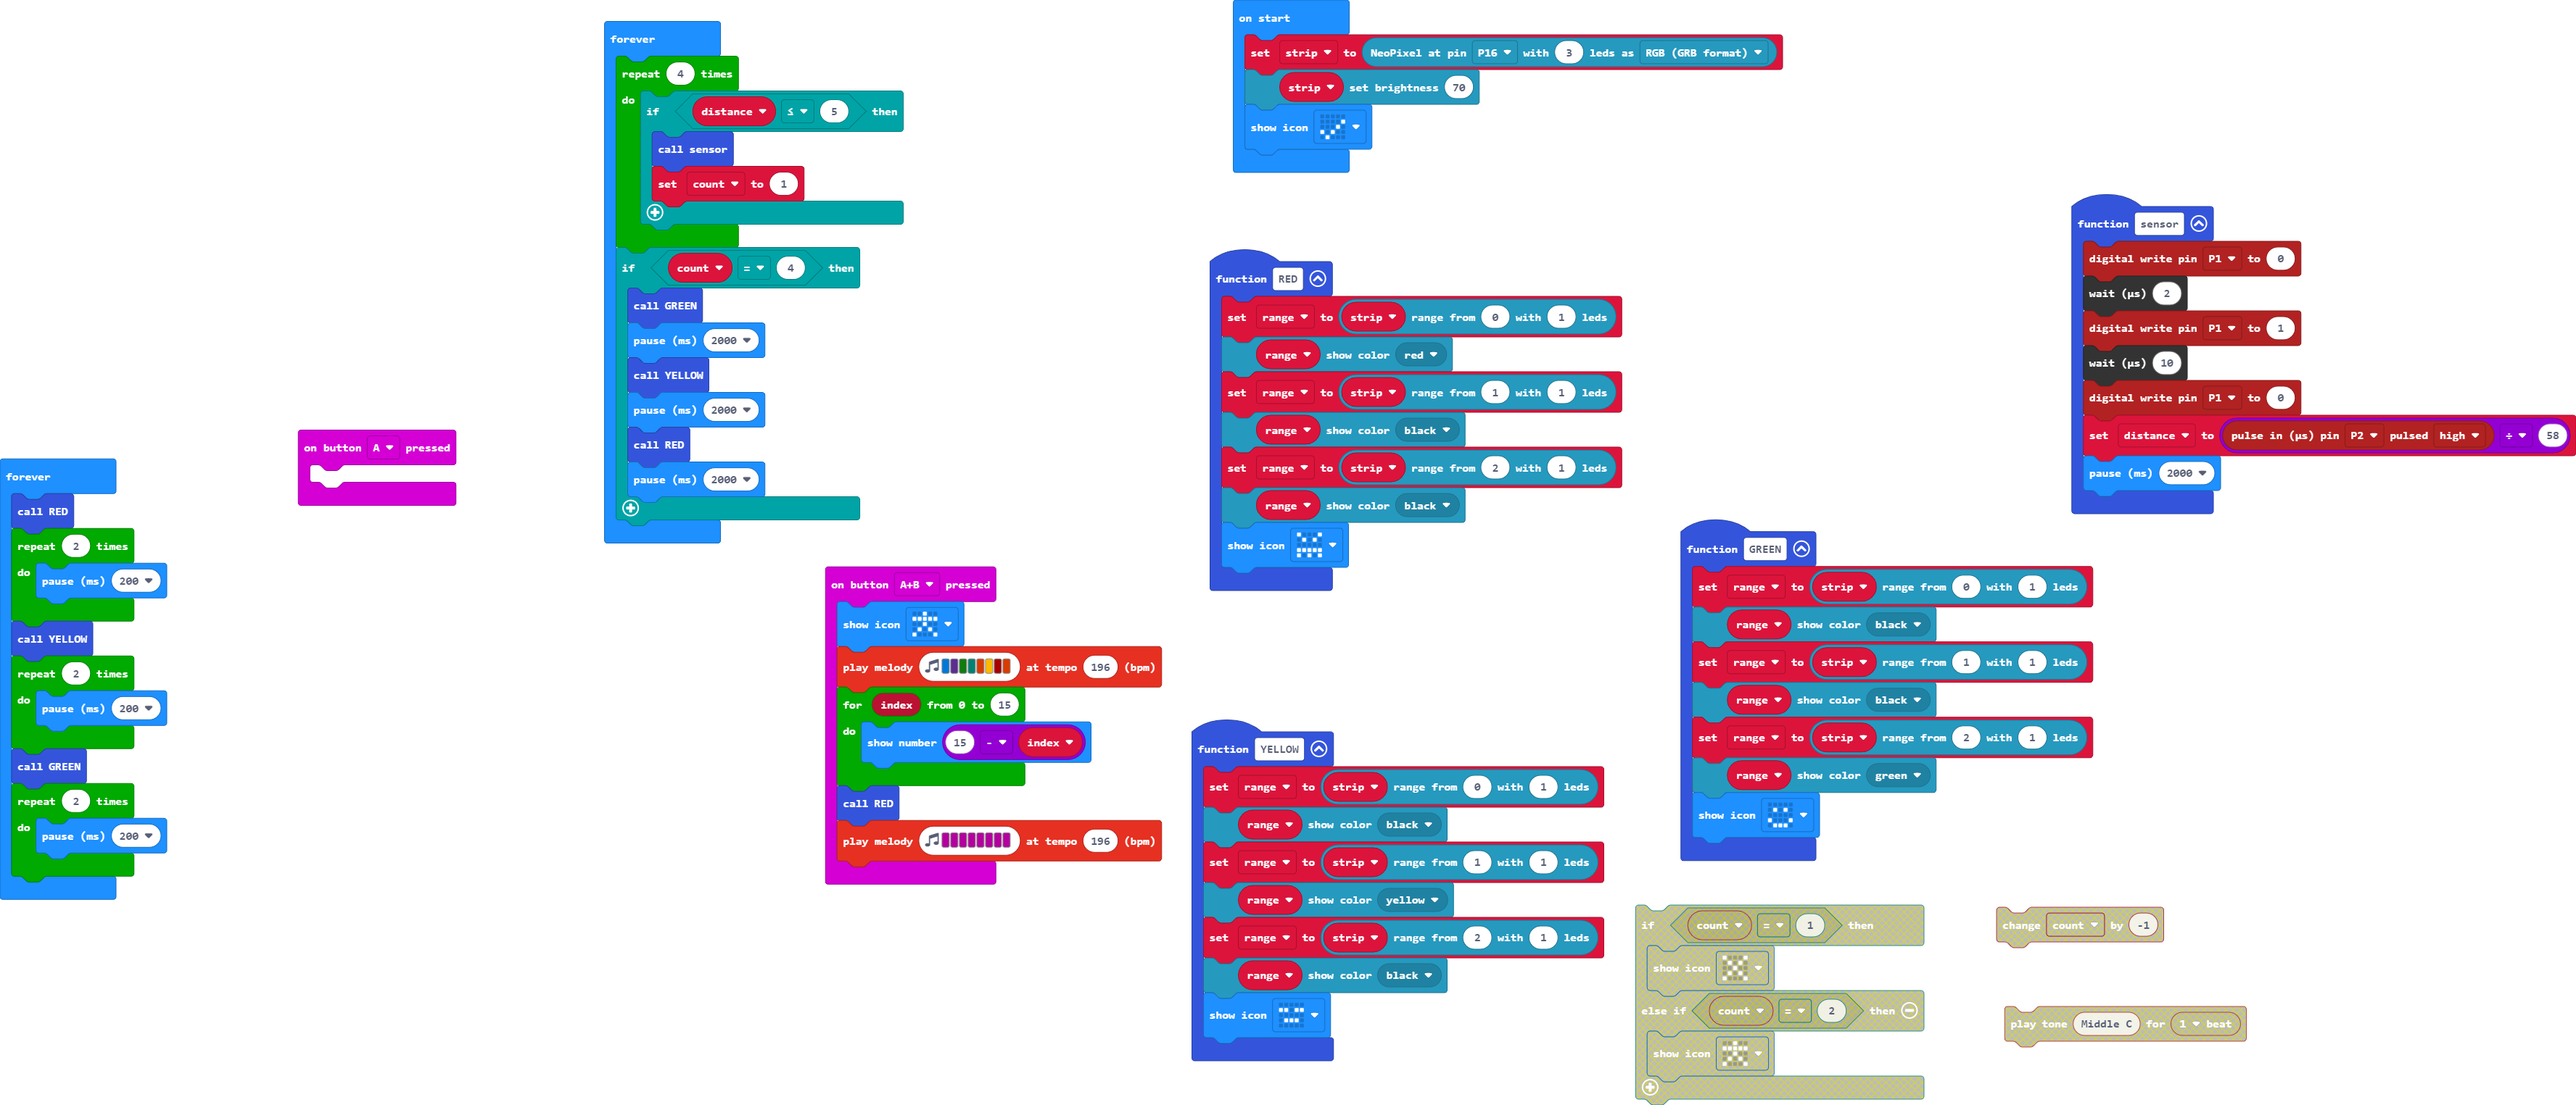
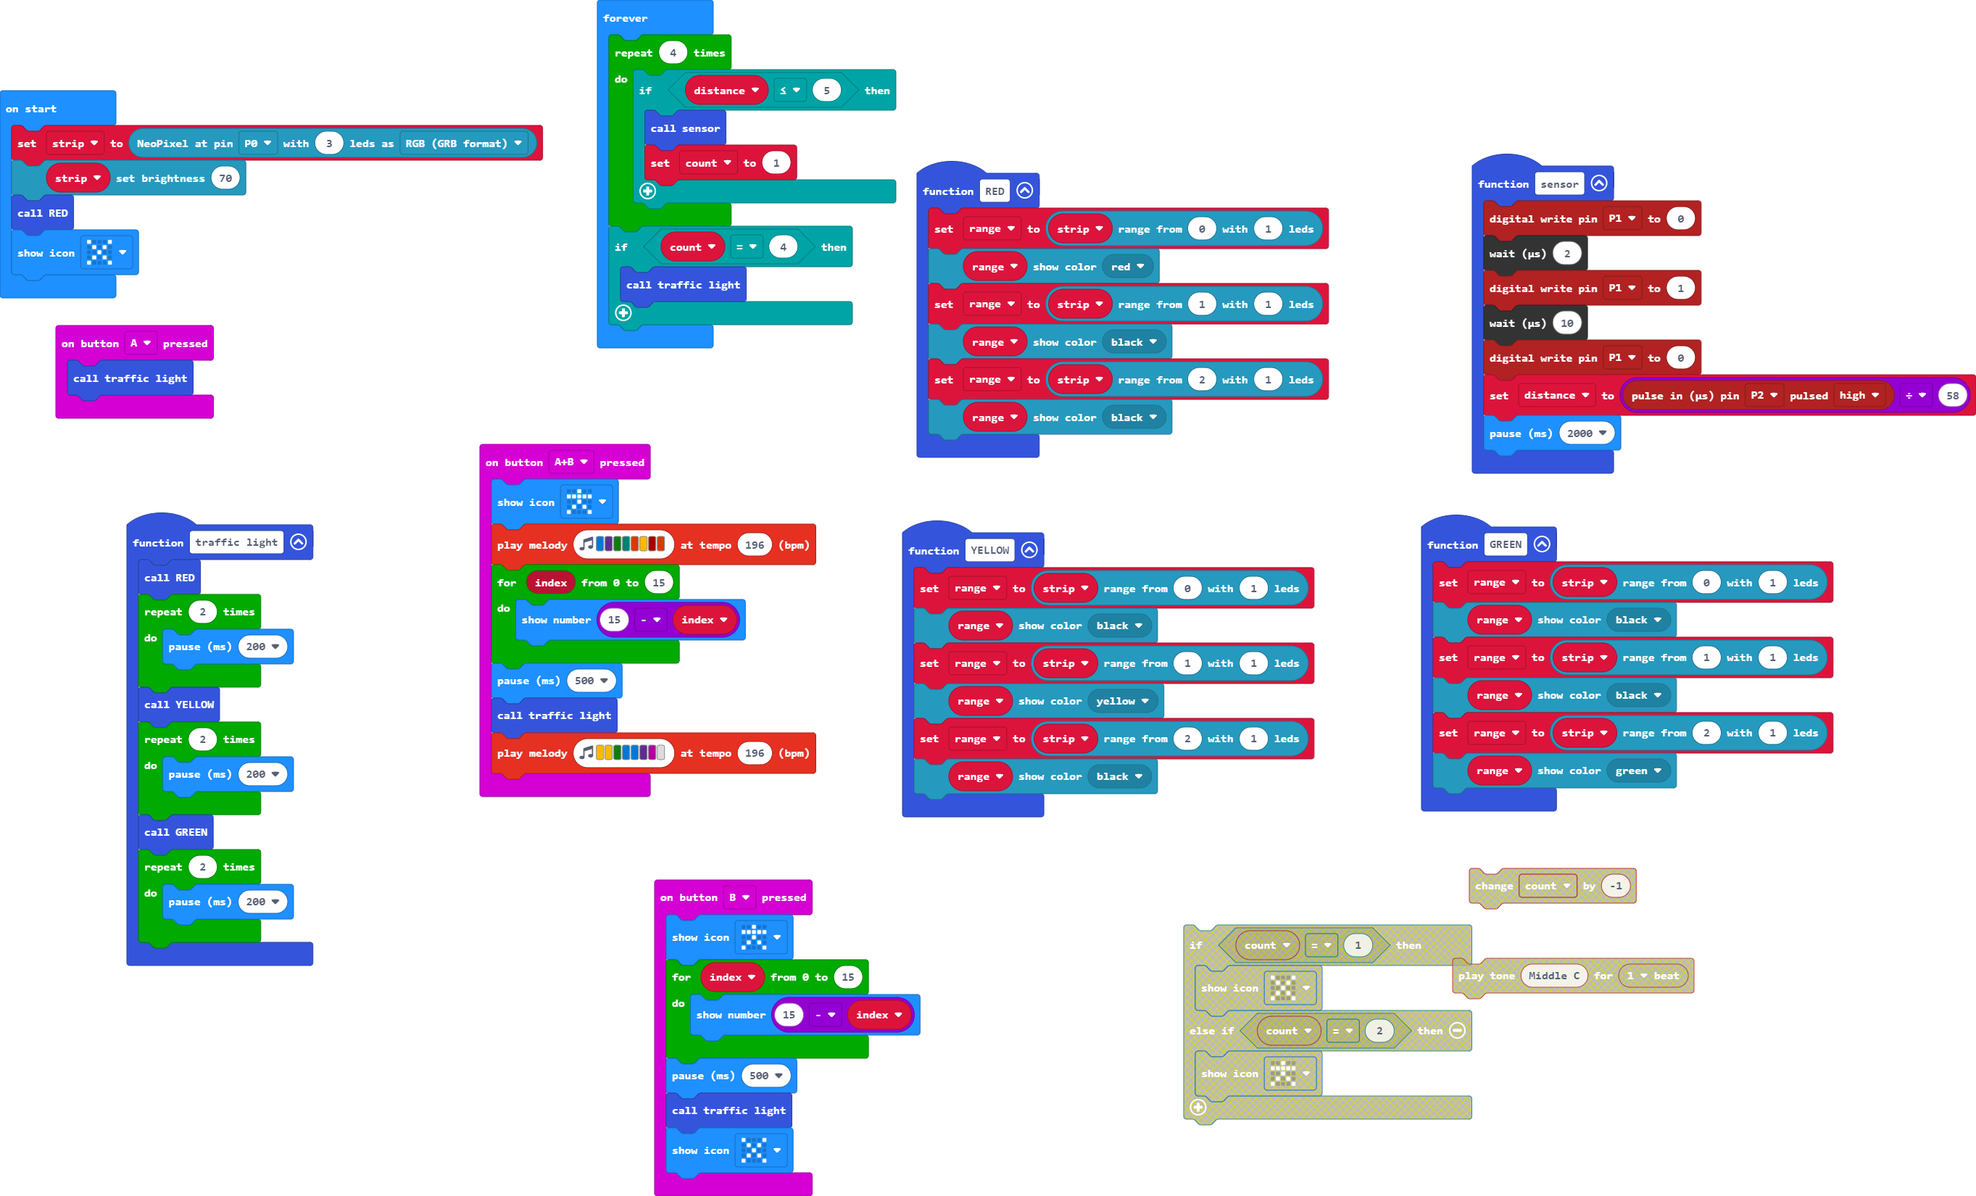
heyy

diff --git a/main.ts b/main.ts
@@ -1,6 +1,20 @@
 input.onButtonPressed(Button.A, function () {
-	
+    traffic_light()
 })
+function traffic_light () {
+    RED()
+    for (let index = 0; index < 2; index++) {
+        basic.pause(200)
+    }
+    YELLOW()
+    for (let index = 0; index < 2; index++) {
+        basic.pause(200)
+    }
+    GREEN()
+    for (let index = 0; index < 2; index++) {
+        basic.pause(200)
+    }
+}
 function RED () {
     range = strip.range(0, 1)
     range.showColor(neopixel.colors(NeoPixelColors.Red))
@@ -8,7 +22,6 @@ function RED () {
     range.showColor(neopixel.colors(NeoPixelColors.Black))
     range = strip.range(2, 1)
     range.showColor(neopixel.colors(NeoPixelColors.Black))
-    basic.showIcon(IconNames.Angry)
 }
 function GREEN () {
     range = strip.range(0, 1)
@@ -17,7 +30,6 @@ function GREEN () {
     range.showColor(neopixel.colors(NeoPixelColors.Black))
     range = strip.range(2, 1)
     range.showColor(neopixel.colors(NeoPixelColors.Green))
-    basic.showIcon(IconNames.Happy)
 }
 input.onButtonPressed(Button.AB, function () {
     basic.showIcon(IconNames.StickFigure)
@@ -25,8 +37,18 @@ input.onButtonPressed(Button.AB, function () {
     for (let index = 0; index <= 15; index++) {
         basic.showNumber(15 - index)
     }
-    RED()
-    music.playMelody("C C C C C C C C ", 196)
+    basic.pause(500)
+    traffic_light()
+    music.playMelody("A A G E E D C - ", 196)
+})
+input.onButtonPressed(Button.B, function () {
+    basic.showIcon(IconNames.StickFigure)
+    for (let index = 0; index <= 15; index++) {
+        basic.showNumber(15 - index)
+    }
+    basic.pause(500)
+    traffic_light()
+    basic.showIcon(IconNames.No)
 })
 function sensor () {
     pins.digitalWritePin(DigitalPin.P1, 0)
@@ -44,15 +66,15 @@ function YELLOW () {
     range.showColor(neopixel.colors(NeoPixelColors.Yellow))
     range = strip.range(2, 1)
     range.showColor(neopixel.colors(NeoPixelColors.Black))
-    basic.showIcon(IconNames.Asleep)
 }
 let count = 0
 let distance = 0
 let range: neopixel.Strip = null
 let strip: neopixel.Strip = null
-strip = neopixel.create(DigitalPin.P16, 3, NeoPixelMode.RGB)
+strip = neopixel.create(DigitalPin.P0, 3, NeoPixelMode.RGB)
 strip.setBrightness(70)
-basic.showIcon(IconNames.Yes)
+RED()
+basic.showIcon(IconNames.No)
 basic.forever(function () {
     for (let index = 0; index < 4; index++) {
         if (distance <= 5) {
@@ -61,25 +83,6 @@ basic.forever(function () {
         }
     }
     if (count == 4) {
-        GREEN()
-        basic.pause(2000)
-        YELLOW()
-        basic.pause(2000)
-        RED()
-        basic.pause(2000)
-    }
-})
-basic.forever(function () {
-    RED()
-    for (let index = 0; index < 2; index++) {
-        basic.pause(200)
-    }
-    YELLOW()
-    for (let index = 0; index < 2; index++) {
-        basic.pause(200)
-    }
-    GREEN()
-    for (let index = 0; index < 2; index++) {
-        basic.pause(200)
+        traffic_light()
     }
 })
